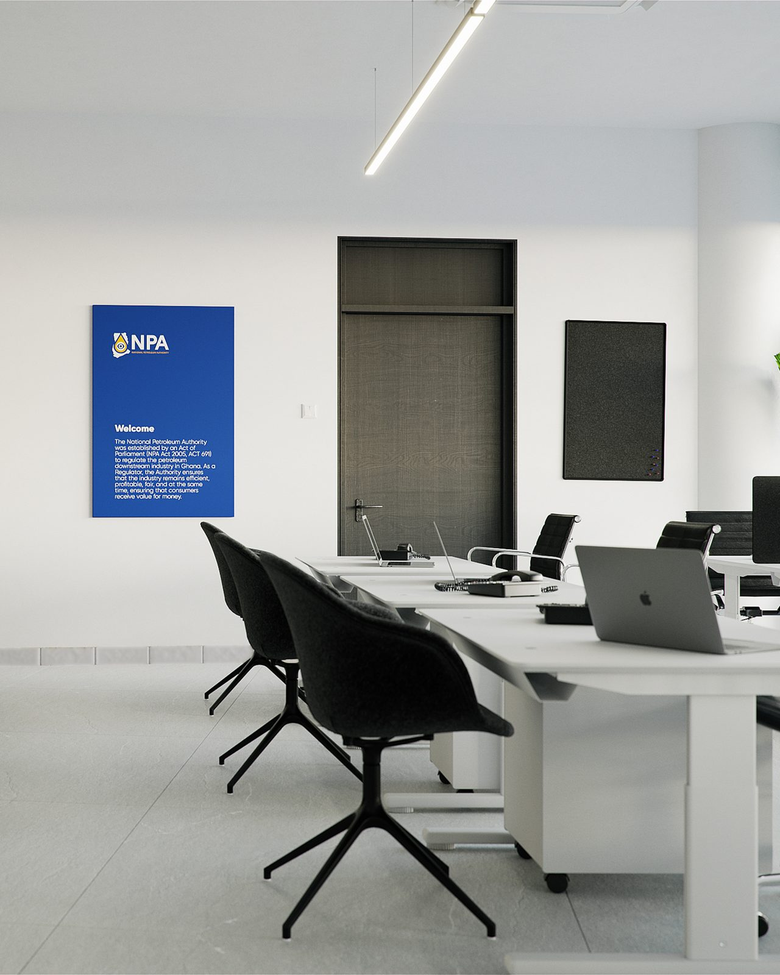
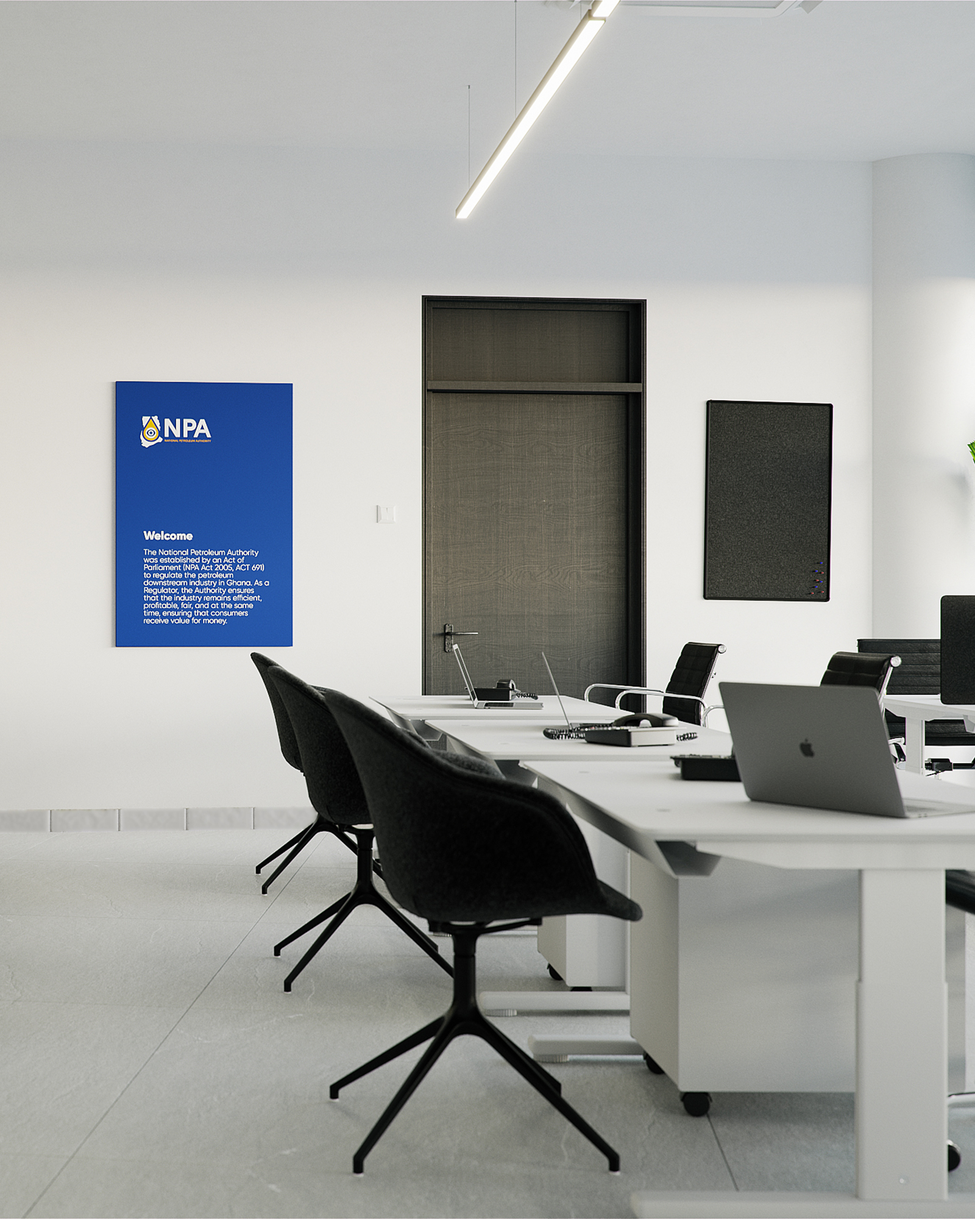
feat(work): raise NPA's pooled brand-wall plate to the 1600 px copy in its own folder
npa-5.jpg was the 1280x1600 pull while npa-office.jpg, unreferenced by any
page, held the same framing at 1600x2000 - aligned MAD 0.0093 against 0.0718
shifted. Copied byte-for-byte and the declared pixels follow.

Changed region(s): [[0.125, 0.4375, 0.2812, 0.5312], [0.125, 0.3438, 0.2188, 0.375]]

diff --git a/npa-reception-renders.html b/npa-reception-renders.html
@@ -155,7 +155,7 @@
         <img width="1600" height="1600" src="assets/images/npa/npa-4.jpg" alt="The meeting end of the floorplate: a black-framed glazed meeting room with a felt-lined door and a grey felt pinboard, and a row of desks with black leather chairs on the near side." class="gallery-img" loading="lazy">
       </div>
       <div class="gallery-item">
-        <img width="1280" height="1600" src="assets/images/npa/npa-5.jpg" alt="Portrait crop of the brand wall: the blue NPA panel carrying the Authority's welcome statement, behind a bank of white desks with black shell chairs and two open laptops." class="gallery-img" loading="lazy">
+        <img width="1600" height="2000" src="assets/images/npa/npa-5.jpg" alt="Portrait crop of the brand wall: the blue NPA panel carrying the Authority's welcome statement, behind a bank of white desks with black shell chairs and two open laptops." class="gallery-img" loading="lazy">
       </div>
     </section>
 
